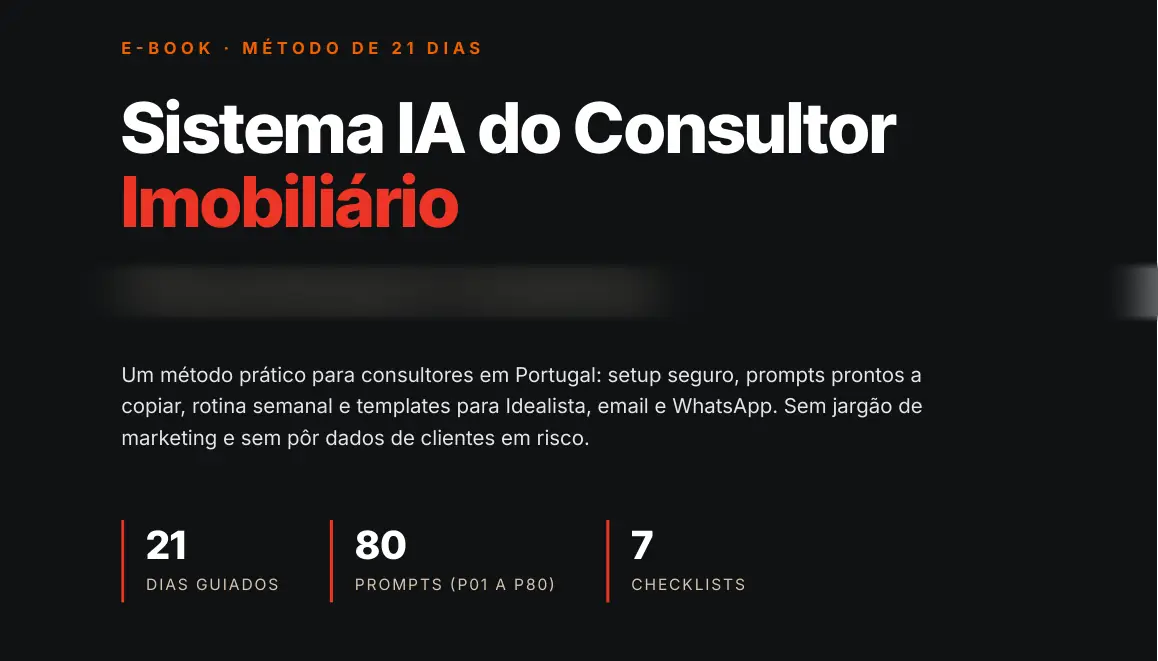
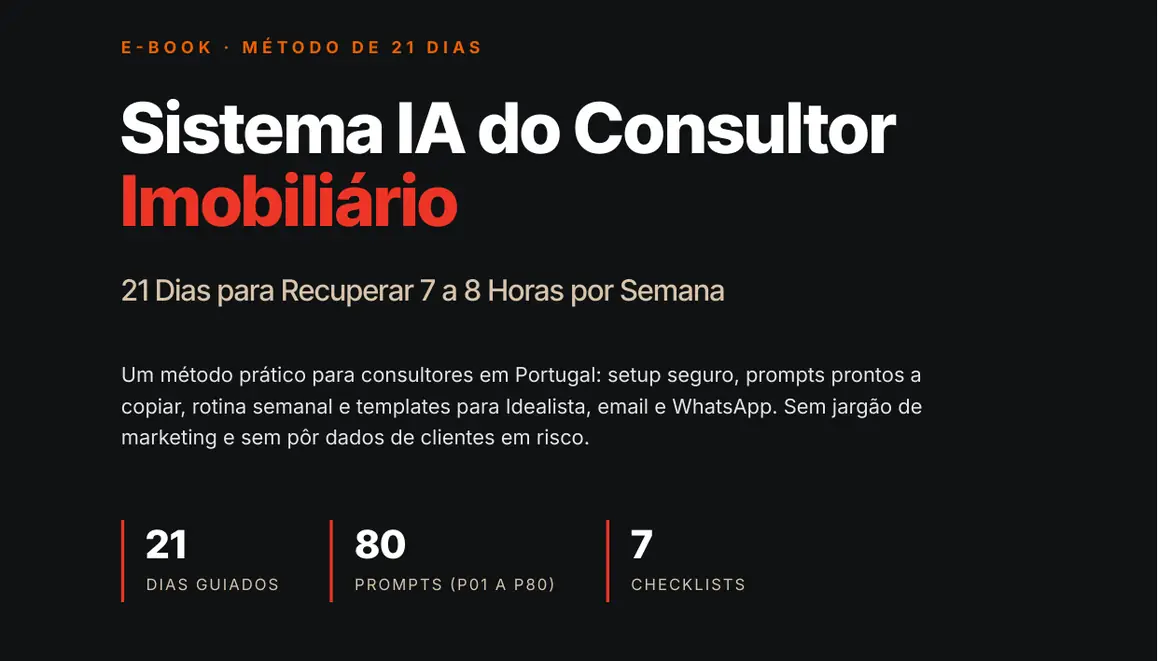
Capa v1.3.2 na /v4/ (#28)
* Swap the /v4/ cover for the v1.3.2 PDF.

The same crop and WebP size stay. The new subtitle is left sharp.

* Show the struck 47 € before 37 € in the /v4/ sticky bar.

Only the order changes. The price styles stay as they are.

* Show the struck €47 before €37 in the LP 06 sticky bar.

Only the order changes, matching that page's price line.

---------

diff --git a/v4/index.html b/v4/index.html
@@ -379,7 +379,7 @@ if(window.SIA21_onHuman){SIA21_onHuman(function(){if(window.SIA21_bootPosthog)SI
     <div class="mobile-spacer" aria-hidden="true"></div>
   </main>
   <div class="mobile-cta">
-    <p class="sticky-price"><b>37 €</b><s class="line-through">47 €</s></p>
+    <p class="sticky-price"><s class="line-through">47 €</s><b>37 €</b></p>
     <a id="sticky-cta" href="https://buy.stripe.com/aFa5kF1OFc4D1fNb6mgrS02" target="_blank" rel="noopener">Quero o e-book por 37 €</a>
   </div>
 </div>

diff --git a/angles/06-chatgpt-falhou/index.html b/angles/06-chatgpt-falhou/index.html
@@ -381,7 +381,7 @@ if(window.SIA21_onHuman){SIA21_onHuman(function(){if(window.SIA21_bootPosthog)SI
     <div class="mobile-spacer" aria-hidden="true"></div>
   </main>
   <div class="mobile-cta">
-    <p class="sticky-price"><b>€37</b><s class="line-through">€47</s></p>
+    <p class="sticky-price"><s class="line-through">€47</s><b>€37</b></p>
     <a id="sticky-cta" href="https://buy.stripe.com/aFa5kF1OFc4D1fNb6mgrS02" target="_blank" rel="noopener">Quero o sistema</a>
   </div>
 </div>
